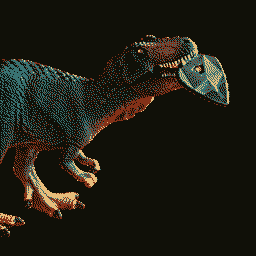
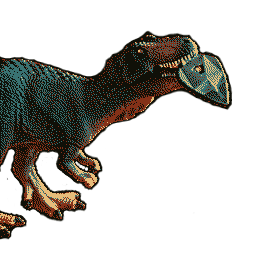
Minor fixes

diff --git a/index.html b/index.html
@@ -11,47 +11,59 @@
 
 </head>
 
-<body class="bg-dark">
+<body class="bg-black">
     <header class="container-fluid">
-        <section class="row p-3">
-            <div id="hero" class="col-4 card border border-light rounded border-5 bg-dark text-light">
-                <h1>Hero 🦸🏻♀</h1>
-                <p>Health</p>
-                <p>Gold</p>
-                <p>Level</p>
-            </div>
-            <div id="sidekick" class="col-4 card border border-light rounded border-5 bg-dark text-light">
-                <h1>Sidekick 🐒</h1>
-                <p>Health</p>
-                <p>Level</p>
+        <section class="row">
+            <div class="col-12 text-light text-center">
+                <h1>BOSS FIGHT</h1>
             </div>
         </section>
     </header>
     <main class="container-fluid">
         <section class="row p-3">
-            <div id="monster" class="col-6 border border-light rounded border-5">
-                <img src="/Assets/screaming-dino.png" alt="very angry dino" />
+            <div id="hero" class="col-2">
+                <div class="card border border-light rounded border-5 bg-black text-light p-1">
+                    <h5>Hero 🦸🏻♀</h5>
+                    <p id="hero-health">Health</p>
+                    <p id="gold">Gold</p>
+                    <p id="hero-level">Level</p>
+                </div>
+            </div>
+            <div id="sidekick" class="col-2">
+                <div class="card border border-light rounded border-5 bg-black text-light p-1">
+                    <h5>Sidekick 🐒</h5>
+                    <p id="sidekick-health">Health</p>
+                    <p id="sidekick-level">Level</p>
+                </div>
+            </div>
+        </section>
+        <section class="row p-3 justify-content-center">
+            <div id="monster" class="col-4 d-flex justify-content-center">
+                <img src="/Assets/trex.png" alt="very angry dino"
+                    class="border border-light rounded border-5 bg-black" />
             </div>
         </section>
     </main>
     <footer class="container-fluid">
-        <section class="row p-3">
-            <div id="store" class="col-6 border border-light rounded border-5">
-                <div class="row text-light">
-                    <div class="col-6">
+        <section class="row p-3 pb-5">
+            <div id="store"
+                class="col-3 border border-light rounded border-5 bg-black d-flex justify-content-start align-items-center p-2">
+                <div class="row text-light justify-content-between">
+                    <div class="col-10">
                         <p>Buy Potion</p>
                         <p>Get a Friend</p>
                         <p>Get a Better Friend</p>
                     </div>
-                    <div class="col-6">
+                    <div class="col-2">
                         <p id="potion">$10</p>
                         <p id="getFriend">$100</p>
                         <p id="getBetterFriend">$200</p>
                     </div>
                 </div>
             </div>
-            <div id="reset" class="col-6">
-                <button id="resetBtn" class="btn btn-dark border-light rounded border-5 text-light">Reset</button>
+            <div id="reset" class="col-6 d-flex justify-content-end align-items-center">
+                <button id="resetBtn" class="btn btn-dark border-light rounded border-5 text-danger"
+                    onclick="reset()">Reset</button>
             </div>
         </section>
     </footer>

diff --git a/style.css b/style.css
@@ -1,3 +1,10 @@
 body {
-    font-family: Arial, Helvetica, sans-serif;
+    font-family: Retro Gaming;
+    background-image: url("https://images.unsplash.com/photo-1433733071959-30cd185d14a8?q=80&w=2748&auto=format&fit=crop&ixlib=rb-4.0.3&ixid=M3wxMjA3fDB8MHxwaG90by1wYWdlfHx8fGVufDB8fHx8fA%3D%3D");
+    background-size: cover;
+}
+
+@font-face {
+    font-family: Retro Gaming;
+    src: url("/Assets/Retro\ Gaming.ttf");
 }
